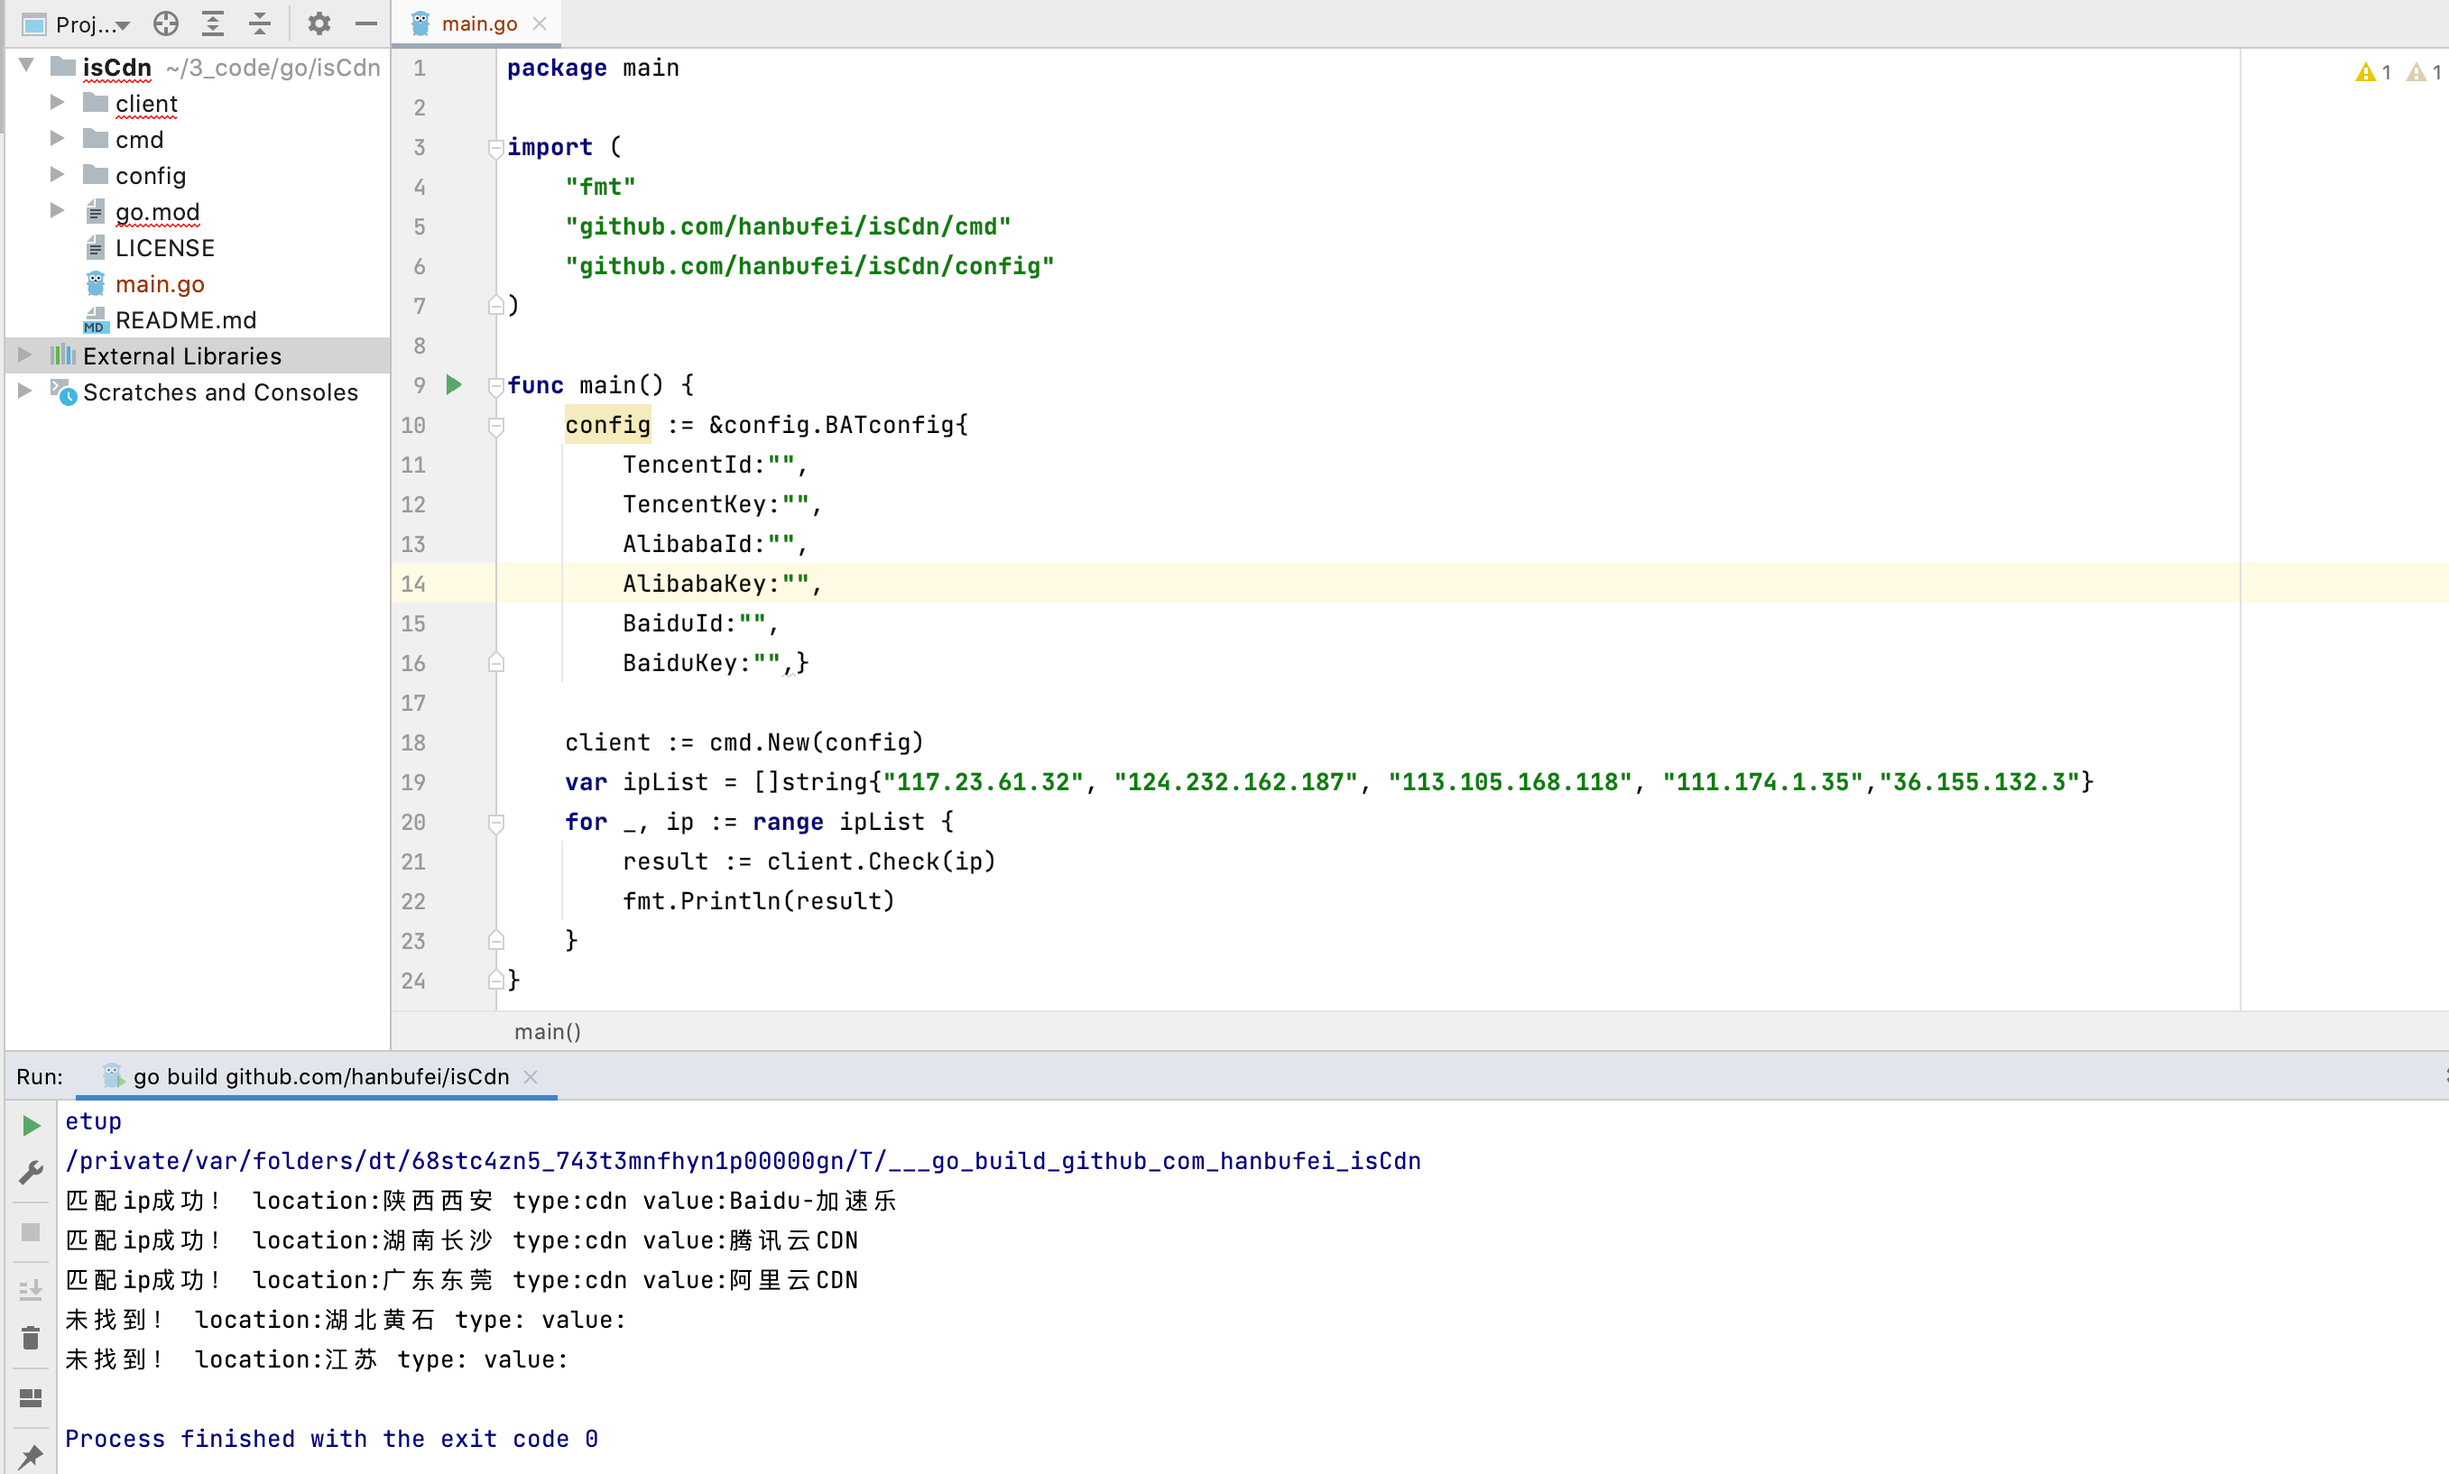
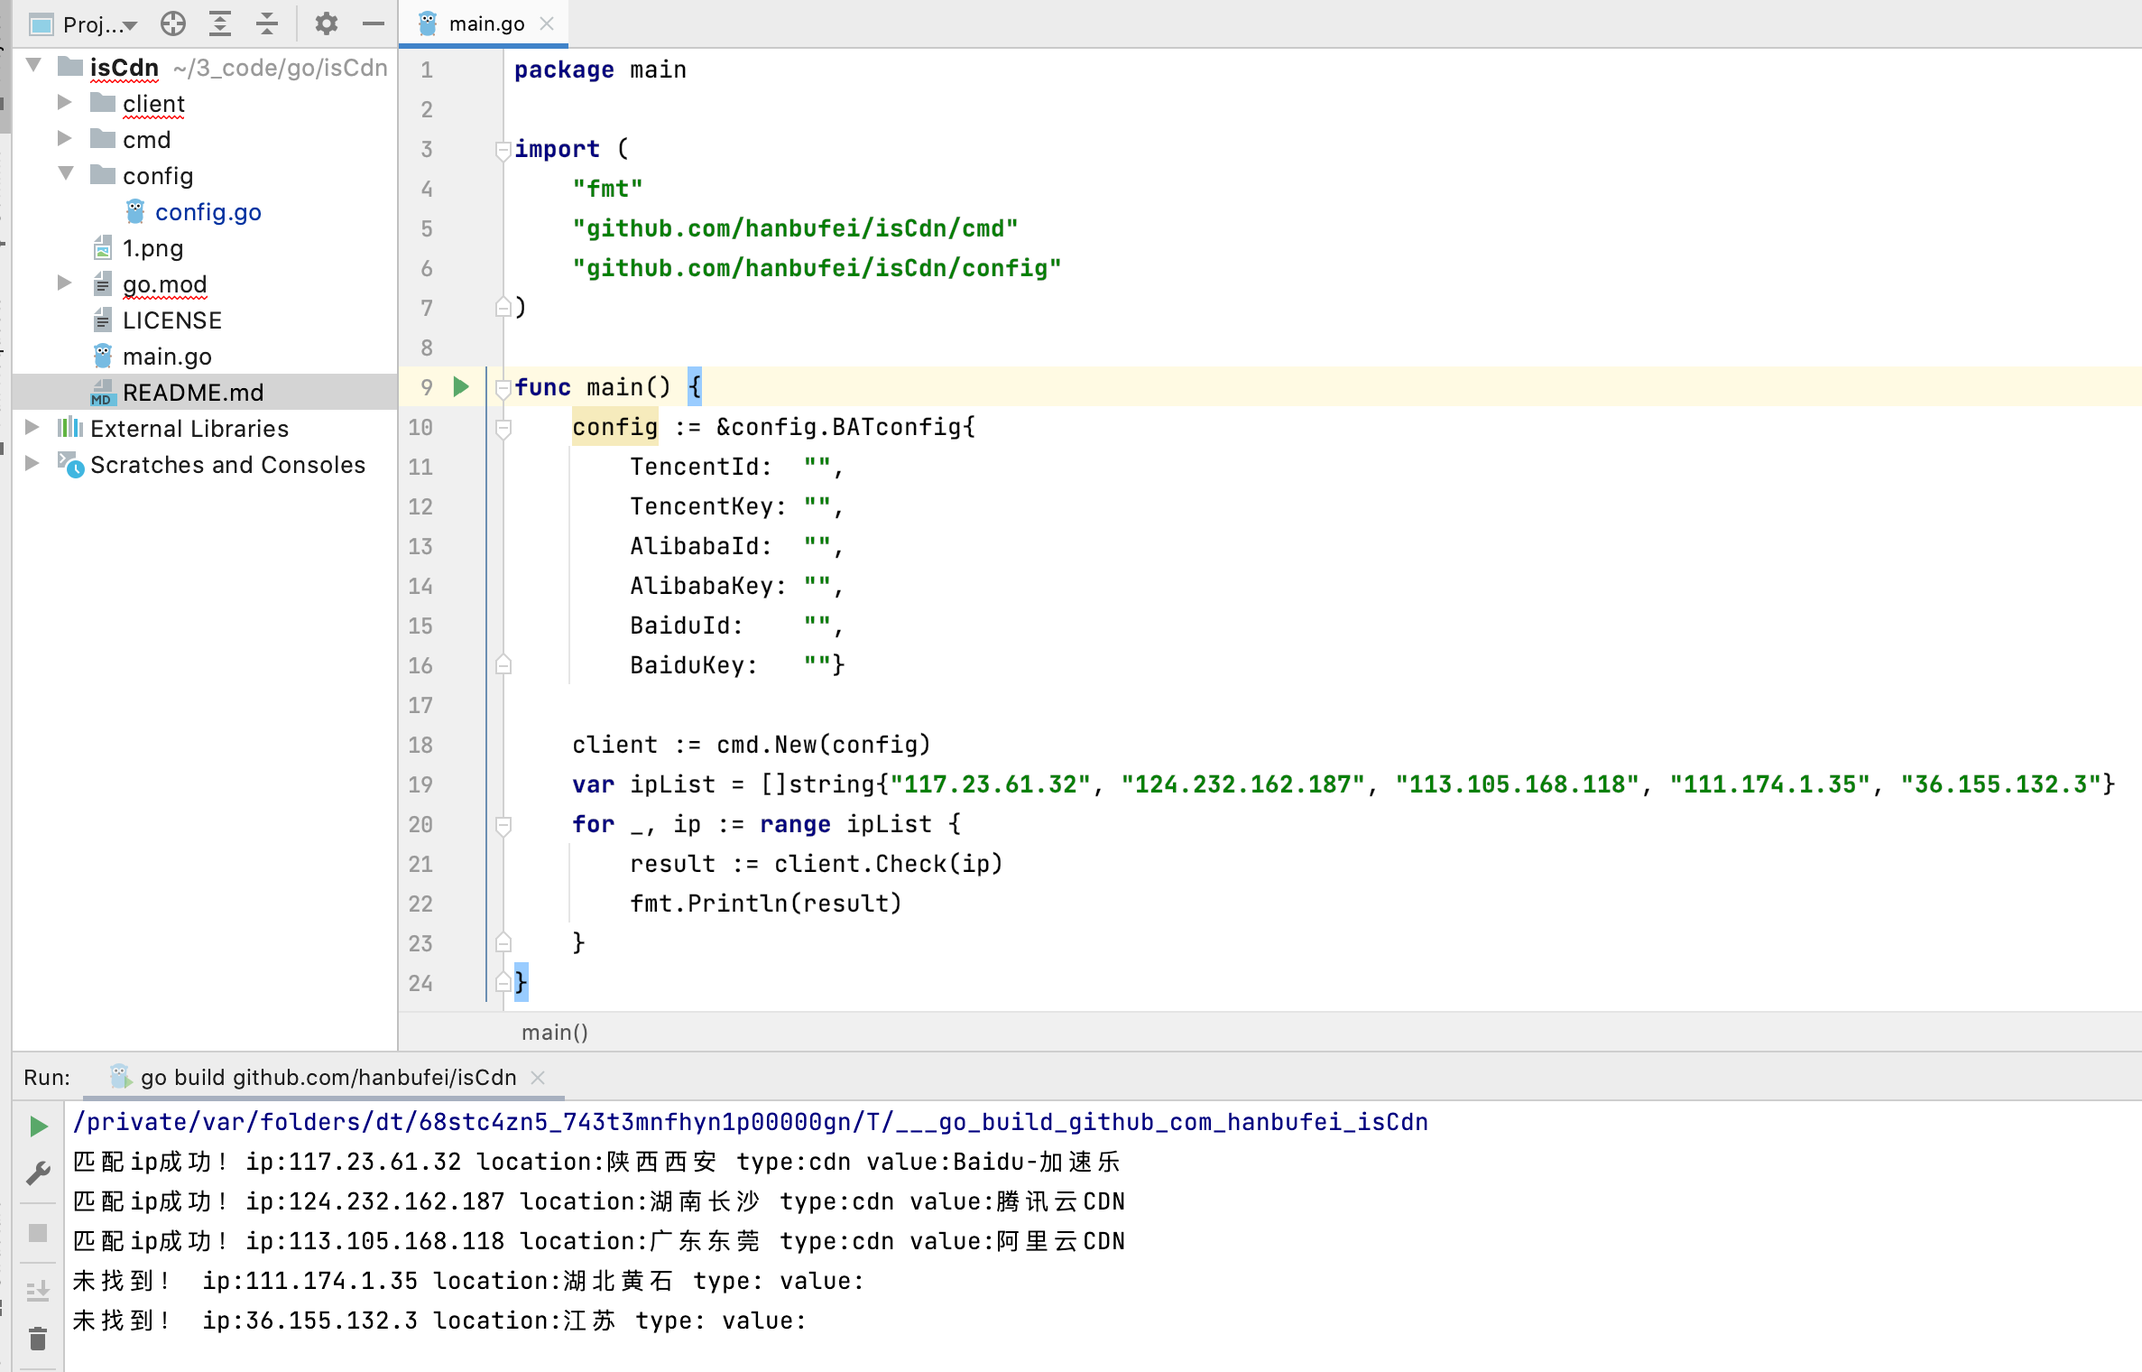
修复循环导入的bug

diff --git a/client/cdncheck.go b/client/cdncheck.go
@@ -10,7 +10,6 @@ import (
 	"github.com/hanbufei/isCdn/config"
 	"io/ioutil"
 	"net"
-	"strings"
 	"sync"
 
 	"github.com/gogf/gf/v2/frame/g"
@@ -204,6 +203,7 @@ func (c *Client) CheckBaidu(input net.IP) (cdn string, isp string) {
 
 // Check checks if ip belongs to one of CDN, WAF and Cloud . It is generic method for Checkxxx methods
 func (c *Client) Check(inputIp string) (result config.Result) {
+	result.Ip = inputIp
 	ip := net.ParseIP(inputIp)
 	if ip == nil {
 		result.IsMatch = false
@@ -259,6 +259,7 @@ func (c *Client) Check(inputIp string) (result config.Result) {
 // Check Domain with fallback checks if domain belongs to one of CDN, WAF and Cloud . It is generic method for Checkxxx methods
 // Since input is domain, as a fallback it queries CNAME records and checks if domain is WAF
 func (c *Client) CheckDomainWithFallback(domain string) (result config.Result) {
+	result.Ip = domain
 	dnsData, err := c.retriabledns.Resolve(domain)
 	result.IsMatch = false
 	if err != nil {
@@ -279,6 +280,7 @@ func (c *Client) CheckDNSResponse(dnsResponse *retryabledns.DNSData) (result con
 		for _, ip := range dnsResponse.A {
 			result := c.Check(ip)
 			if result.IsMatch {
+				result.Ip = ip
 				return result
 			}
 		}
@@ -299,12 +301,4 @@ func (c *Client) CheckDNSResponse(dnsResponse *retryabledns.DNSData) (result con
 	}
 	result.IsMatch = false
 	return
-}
-
-func MapKeys(m map[string][]string) string {
-	keys := make([]string, 0, len(m))
-	for k := range m {
-		keys = append(keys, k)
-	}
-	return strings.Join(keys, ", ")
 }

diff --git a/config/config.go b/config/config.go
@@ -15,6 +15,7 @@ type BATconfig struct {
 }
 
 type Result struct {
+	Ip       string
 	IsMatch  bool   //是否匹配到cdn
 	Location string //ip位置
 	Type     string //cdn、waf、cloud
@@ -23,7 +24,7 @@ type Result struct {
 
 func (r Result) String() string {
 	if r.IsMatch {
-		return fmt.Sprintf("匹配ip成功！ location:%s type:%s value:%s", r.Location, r.Type, r.Value)
+		return fmt.Sprintf("匹配ip成功！ip:%s location:%s type:%s value:%s", r.Ip, r.Location, r.Type, r.Value)
 	}
-	return fmt.Sprintf("未找到！ location:%s type:%s value:%s", r.Location, r.Type, r.Value)
+	return fmt.Sprintf("未找到！ ip:%s location:%s type:%s value:%s", r.Ip, r.Location, r.Type, r.Value)
 }

diff --git a/cmd/api.go b/cmd/api.go
@@ -14,7 +14,7 @@ func New(config *config.BATconfig) CdnCheck {
 	return CdnCheck{client: client.New(config)}
 }
 
-func (c *CdnCheck) Check(ip string) string {
+func (c *CdnCheck) Check(ip string) config.Result {
 	result := c.client.Check(ip)
-	return result.String()
+	return result
 }
